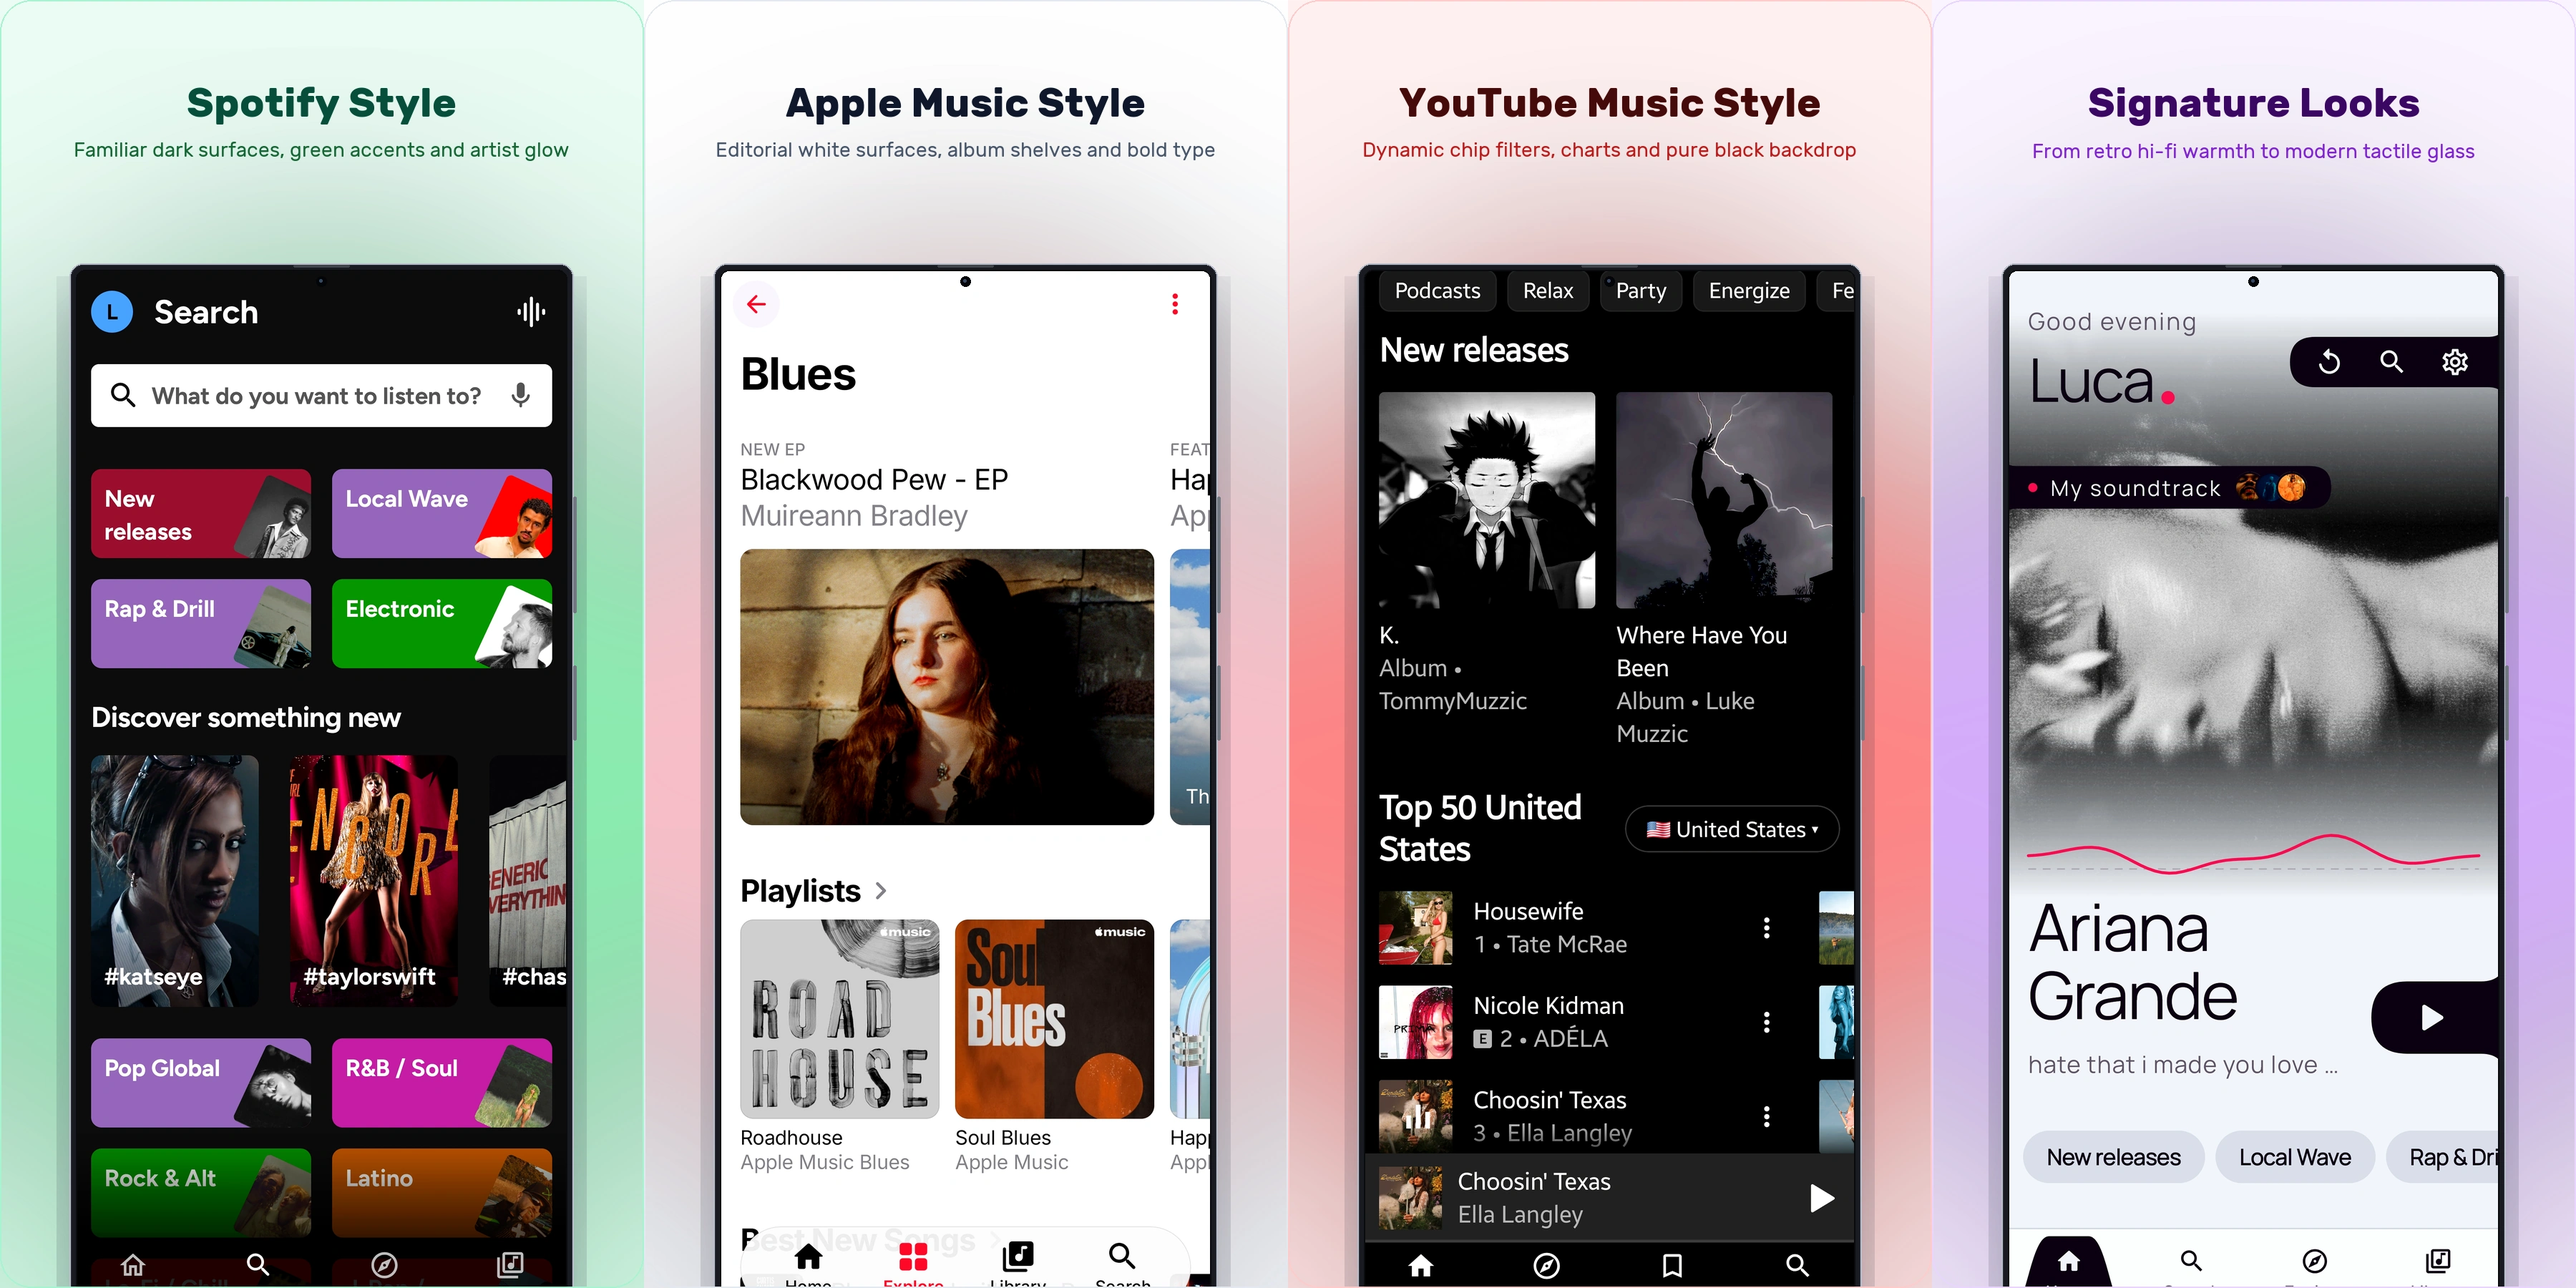
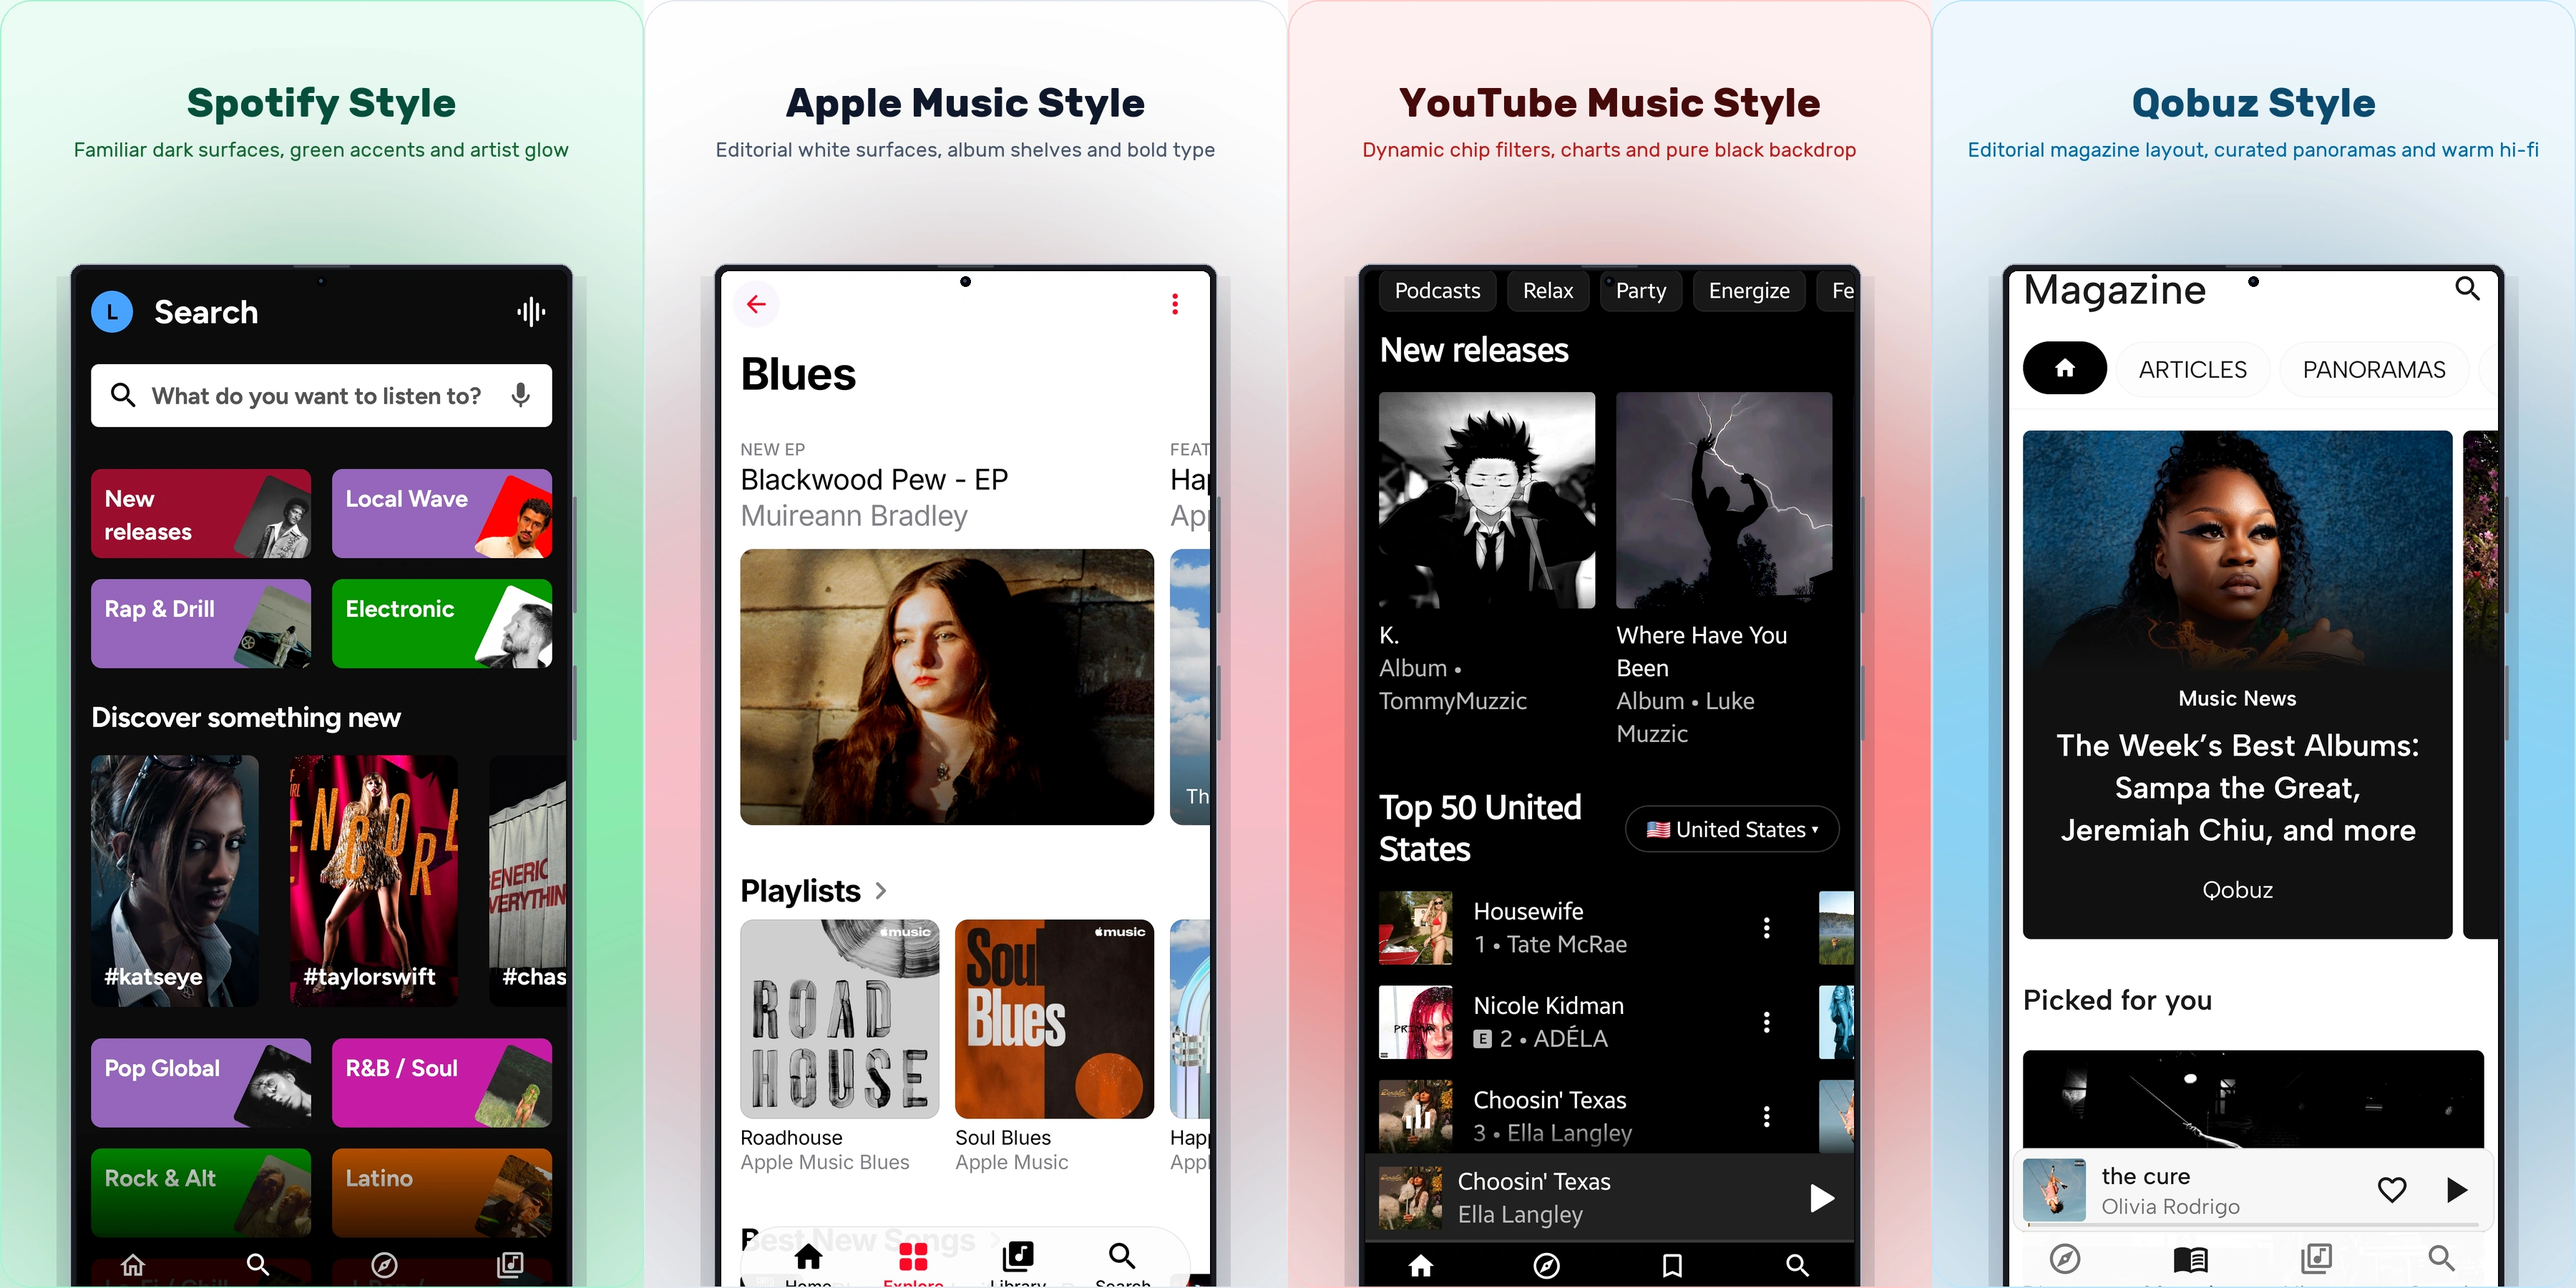
docs(readme): update showcase row 6 skin card to Qobuz Style

Changed region(s): [[0.7467, 0.0, 1.0, 1.0]]

diff --git a/scripts/generate_showcase_assets.py b/scripts/generate_showcase_assets.py
@@ -846,16 +846,16 @@ README_CARD_SPECS = [
         (185, 28, 28),
     ),
     (
-        "24_signature_looks",
-        "Signature Looks",
-        "From retro hi-fi warmth to modern tactile glass",
-        "Screenshot_20261028_212406_Levyra.jpg",
-        (250, 245, 255),
-        (243, 232, 255),
-        (168, 85, 247),
-        (233, 213, 255),
-        (59, 7, 100),
-        (126, 34, 206),
+        "24_qobuz_style",
+        "Qobuz Style",
+        "Editorial magazine layout, curated panoramas and warm hi-fi",
+        "Screenshot_20261030_123252_Levyra.jpg",
+        (240, 249, 255),
+        (224, 242, 254),
+        (14, 165, 233),
+        (186, 230, 253),
+        (12, 74, 110),
+        (3, 105, 161),
     ),]
 
 def make_campaign_device(filename, width):

diff --git a/README.md b/README.md
@@ -131,7 +131,7 @@ Enhanced Audio is on by default and can be turned off in Audio Settings. Technic
 <br />
 <div><img src="docs/assets/showcase/editorial-cards/editorial-grid-row-05-spaced.webp?v=4" width="900" align="top" alt="Levyra showcase: synced lyrics, offline albums, discovery, and Year in Music" /></div>
 <br />
-<div><img src="docs/assets/showcase/editorial-cards/editorial-grid-row-06-skins-spaced.webp?v=4" width="900" align="top" alt="Levyra showcase: Spotify Style, Apple Music Style, YouTube Music Style, and Signature Looks" /></div>
+<div><img src="docs/assets/showcase/editorial-cards/editorial-grid-row-06-skins-spaced.webp?v=4" width="900" align="top" alt="Levyra showcase: Spotify Style, Apple Music Style, YouTube Music Style, and Qobuz Style" /></div>
 </div>
 
 </div>
